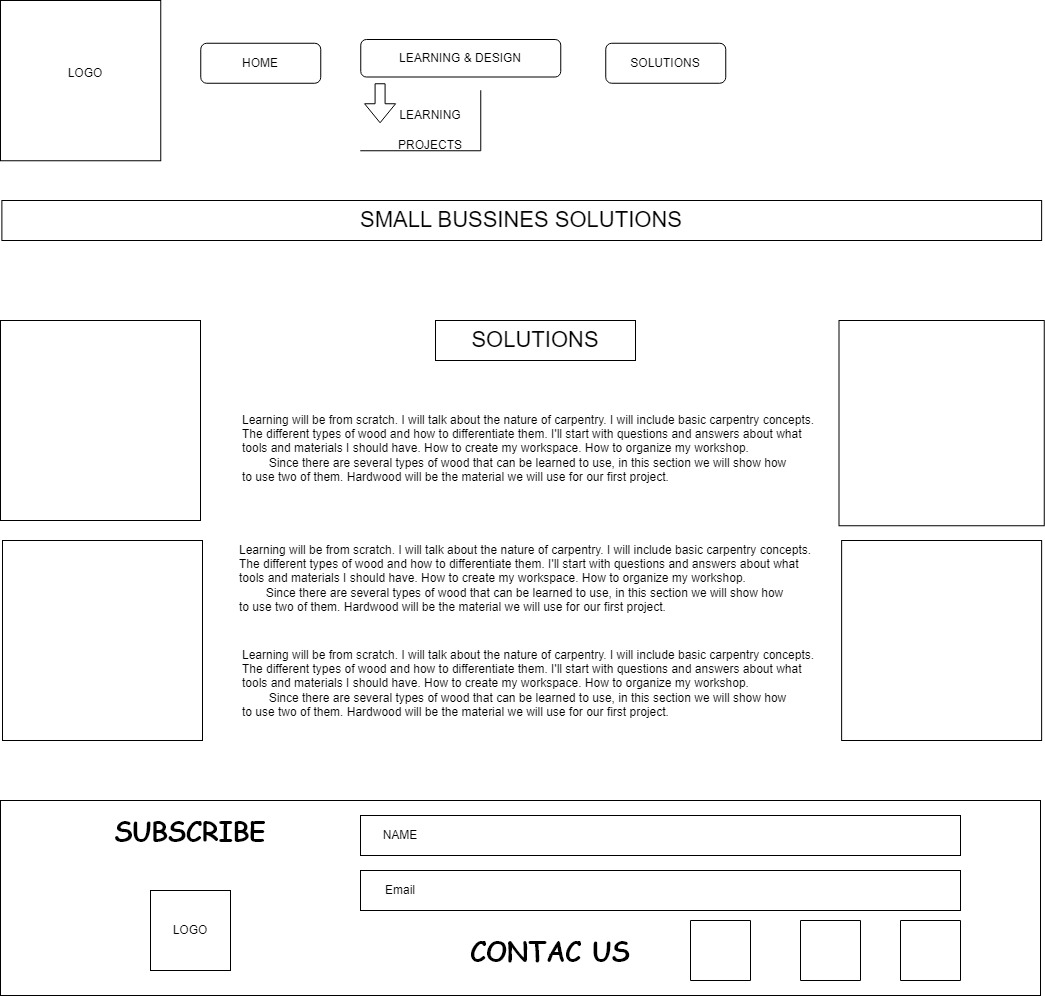
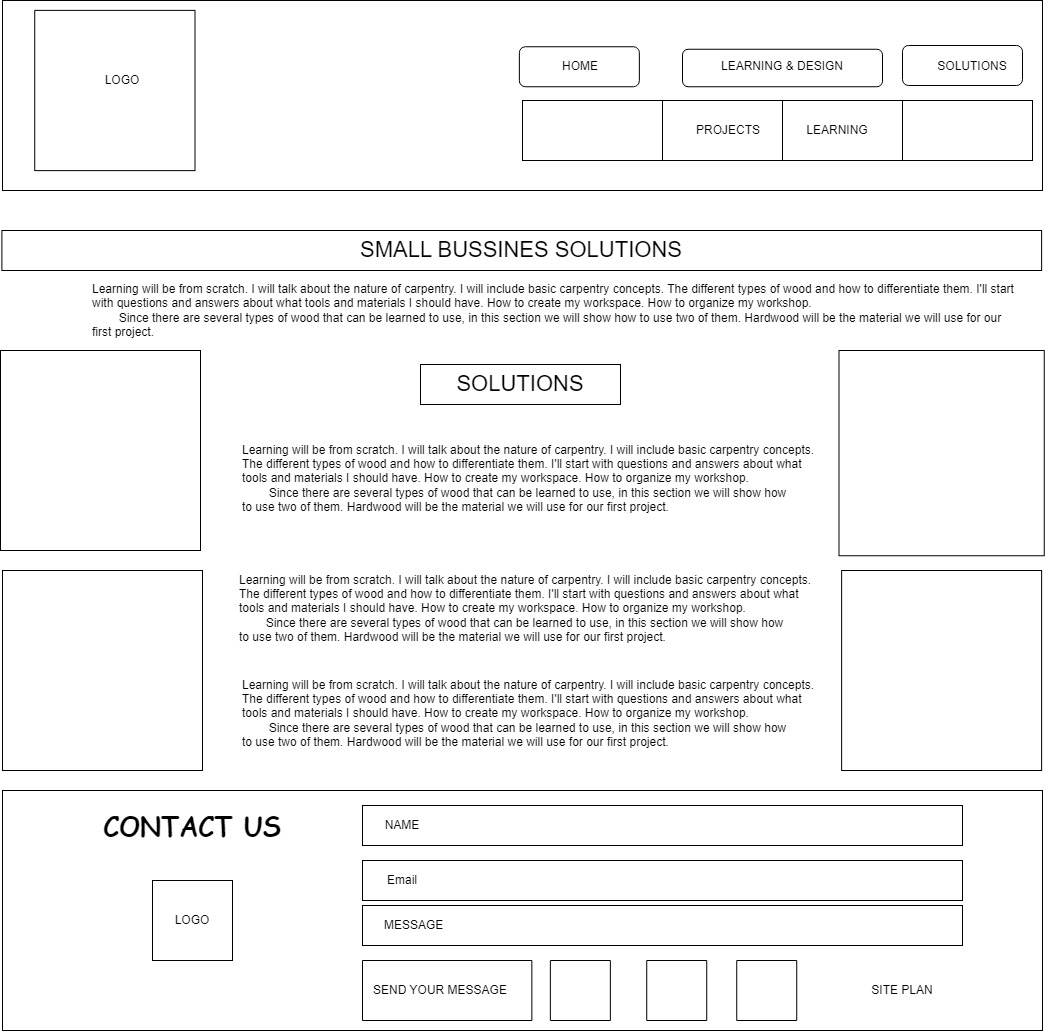
edit personal page

diff --git a/personal-site-folder/site-plan.html b/personal-site-folder/site-plan.html
@@ -234,19 +234,19 @@
       <p>         
         In the header I will include a Dropdown in the projects tab
       </p>
-      <img src="images/index-personal-site.png" alt="page 1 wirefram">
+      <img src="images/index-personal-plane.jpg" alt="page 1 wirefram">
 
       <h3>Learning </h3>
       <p>         
         This page will contain learning.
       </p>
-      <img src="images/learning-personal-folder.jpg" alt="page 2 wireframe">
+      <img src="images/learning-personal-plane.jpg" alt="page 2 wireframe">
 
       <h3>Projects</h3>
       <p>         
         This section will include two design projects.
       </p>
-      <img src="images/projects-personal-folder-new.jpg" alt="page 3 wireframe">
+      <img src="images/projects-personal-folder.jpg" alt="page 3 wireframe">
 
       <h3>Solutions</h3>
       <p>         

diff --git a/personal-site-folder/index.html b/personal-site-folder/index.html
@@ -198,7 +198,7 @@ body {
         </form>
               
         <div class="social">
-                <p id="contactus">Contac us</p>
+                <p id="contactus">Contact us</p>
         <a href="https://facebook.com" target="_blank"> 
             <img src="images/facebook.png" alt="fb icon">
         </a>
@@ -211,6 +211,9 @@ body {
         </div>
             <div class="copyright"> &copy; 2023 - Juanita P. Aguilera</div>   
             </div>
+            <div class="site-plan">
+          <a id="site-plan" href="site-plan.html">Site Plan</a>
+        </div>
         </footer>  
     </div> 
 </body>

diff --git a/personal-site-folder/design.html b/personal-site-folder/design.html
@@ -298,6 +298,9 @@ body {
         </div>
             <div class="copyright"> &copy; 2023 - Juanita P. Aguilera</div>   
             </div>
+            <div class="site-plan">
+          <a id="site-plan" href="site-plan.html">Site Plan</a>
+        </div>
         </footer> 
  </div>
 </body>

diff --git a/personal-site-folder/learning.html b/personal-site-folder/learning.html
@@ -250,6 +250,9 @@ body {
         </div>
             <div class="copyright"> &copy; 2023 - Juanita P. Aguilera</div>   
             </div>
+            <div class="site-plan">
+          <a id="site-plan" href="site-plan.html">Site Plan</a>
+        </div>
         </footer> 
  </div>
 </body>

diff --git a/personal-site-folder/small-business-solutions.html b/personal-site-folder/small-business-solutions.html
@@ -279,6 +279,9 @@ body {
         </div>
             <div class="copyright"> &copy; 2023 - Juanita P. Aguilera</div>   
             </div>
+            <div class="site-plan">
+          <a id="site-plan" href="site-plan.html">Site Plan</a>
+        </div>
         </footer> 
  </div>
 </body>
